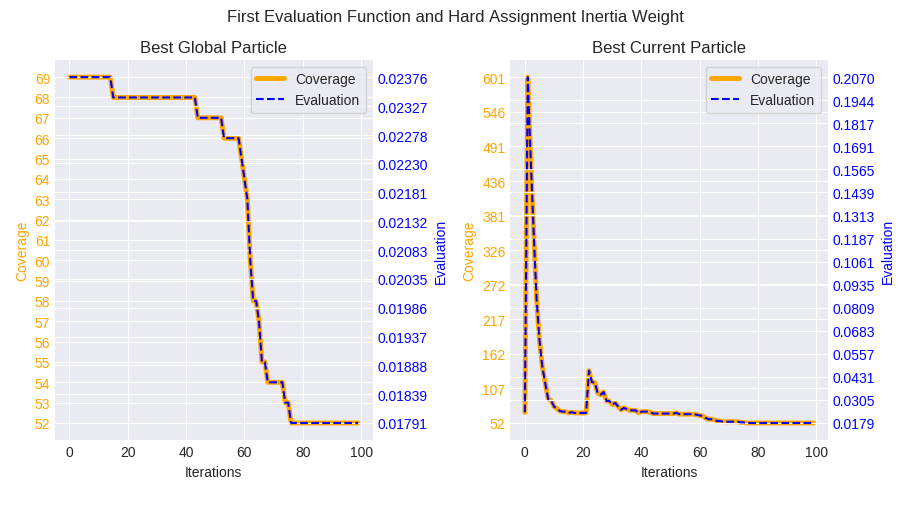
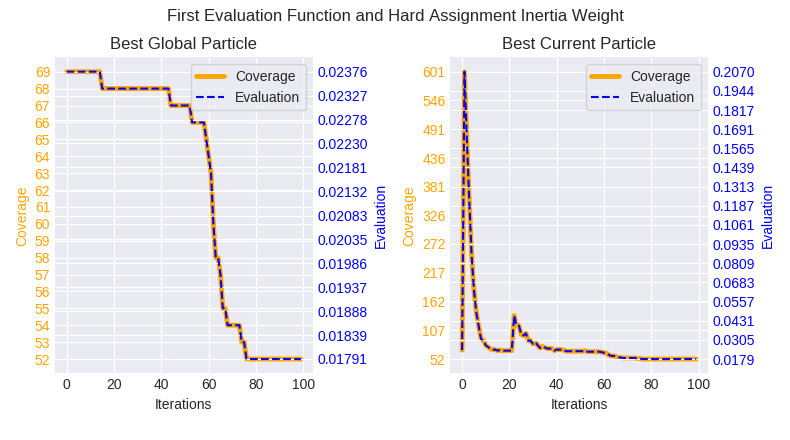
Updated plots

diff --git a/plots/create_plots.py b/plots/create_plots.py
@@ -125,7 +125,7 @@ def create_plot():
     #data_df = np.append(data_df, np.array(evaluation_values_best_iteration).reshape(len(evaluation_values_best_iteration), 1), axis=1)
     #df = pd.DataFrame(data=data_df, columns=["Evaluation Global Best", "Evaluation Current Best"])
 
-    figure, axs = plt.subplots(1, 2, figsize=(9.1, 5.1))
+    figure, axs = plt.subplots(1, 2, figsize=(7.9, 4.4))
     #sns.set_style("darkgrid")
     #print(plt.style.available)
     #plt.style.use("ggplot")
@@ -199,7 +199,7 @@ def create_plot():
     second_ax2.lines[0].set_linestyle("--")
     second_ax2.set_ylabel('Evaluation', color='blue') #, rotation=270, labelpad=10)
     second_ax2.tick_params(axis='y', labelcolor='blue')
-    second_ax2.set_xticks(np.around(np.arange(0, len(evaluation_values_best_iteration) + 1, step=len(evaluation_values_best_iteration) / 16)))
+    second_ax2.set_xticks(np.around(np.arange(0, len(evaluation_values_best_iteration) + 1, step=len(evaluation_values_best_iteration) / 12)))
 
     step_yticks_second_ax2 = (np.max(evaluation_values_best_iteration) - np.min(evaluation_values_best_iteration)) / 15
     second_ax2.set_yticks(np.around(np.arange(np.min(evaluation_values_best_iteration), np.max(evaluation_values_best_iteration) + step_yticks_second_ax2, step=step_yticks_second_ax2), decimals=10))
@@ -223,8 +223,8 @@ def create_plot():
 
     plt.tight_layout(rect=[0, 0.03, 1, 0.95])
     plt.suptitle(title_plot)
-    #plt.savefig(os.path.join(PLOTS_PATH, log_name + "_plot.png"))
-    plt.show()
+    plt.savefig(os.path.join(PLOTS_PATH, log_name.split('.')[0] + "_plot.png"))
+    #plt.show()
 
 
     ##sns.lineplot(x=np.arange(len(min_vals))[::5], y=min_vals[::5], color='orange')

diff --git a/statistics/analysation_global_best.py b/statistics/analysation_global_best.py
@@ -40,7 +40,7 @@ def analyse_global_best():
                     if 'inertia_assignation_type=soft' in data_file:
                         print('inertia_assignation_type=soft')
                     elif 'inertia_assignation_type=hard' in data_file:
-                        print('inertia_assignation_type=soft')
+                        print('inertia_assignation_type=hard')
 
                 with open(log_path, "r") as fd:
 
